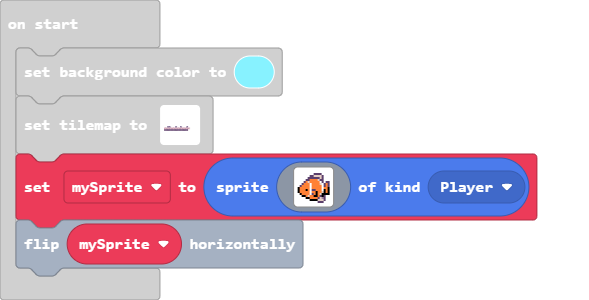
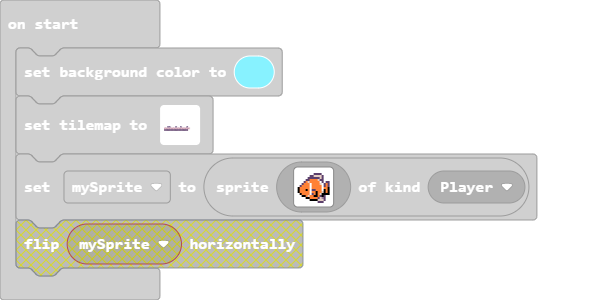
Update main.blocks, main.ts

Changed region(s): [[0.0, 0.51, 0.9168, 0.93]]

diff --git a/main.ts b/main.ts
@@ -27,4 +27,3 @@ let mySprite = sprites.create(img`
     . . . . . . f f f f d d d c . . 
     . . . . . . . . . . c c c . . . 
     `, SpriteKind.Player)
-mySprite.flipX()
